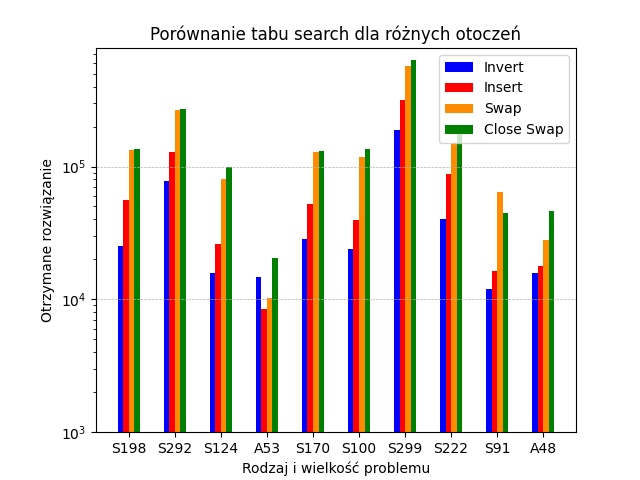
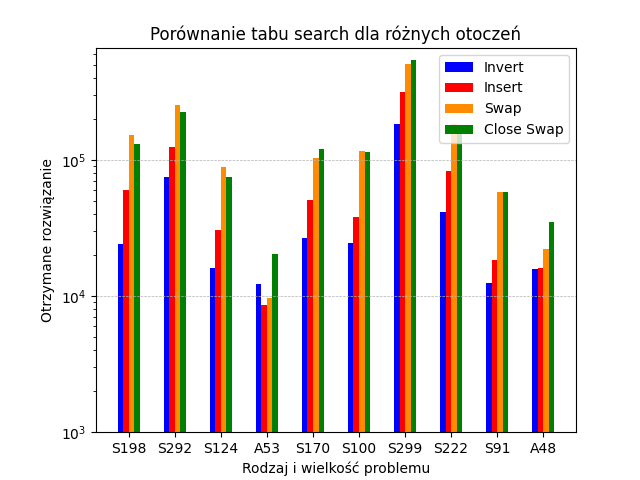
Small changes

diff --git a/src/main/java/org/example/tabooSearchAnalyses/AlgorithmsComparisonTS.java b/src/main/java/org/example/tabooSearchAnalyses/AlgorithmsComparisonTS.java
@@ -12,8 +12,8 @@ import org.example.algorithm.taboo.Neighbourhoods.Insert;
 import org.example.algorithm.taboo.Neighbourhoods.Invert;
 import org.example.algorithm.taboo.Neighbourhoods.Swap;
 import org.example.algorithm.taboo.TabooSearch2;
-import org.example.algorithm.taboo.stopFunctions.IterationsStop;
-import org.example.algorithm.taboo.stopFunctions.TimeStop;
+import org.example.stopFunctions.IterationsStop;
+import org.example.stopFunctions.TimeStop;
 import org.example.algorithm.taboo.tabooList.BasicTabooList;
 import org.example.algorithm.taboo.tabooList.InvertTabooList;
 import org.example.data.Result;
@@ -332,24 +332,22 @@ public class AlgorithmsComparisonTS {
 	}
 
 	// Porownanie listy dlugoterminowej
-	public static void compareExploreFunctions(String fileName, List<TspData> data) {
+	public static void compareExploreFunctions(String fileName, List<TspData> data, int kick_changes) {
 		int n = data.size();
 		int tests[] = {0, 50, 100, 200, 300};
 		int ts[][] = new int[n][tests.length + 1];
 		int i = 0;
 		for (TspData tspData : data) {
 			Result res = new KRandom(tspData).calculate();
-			System.out.println(i + ": " + tspData.getSize());
 			for(int j = 0; j < tests.length; j++) {
-				ExploreFunction exploreFunction = new Kick(tests[j], 5);
+				ExploreFunction exploreFunction = new Kick(tests[j], kick_changes);
 				if(tests[j] == 0) exploreFunction = null;
 				TabooSearch2 taboo = new TabooSearch2(tspData, res, false,
 						new BasicTabooList(10), new Invert(),
 						new IterationsStop(2000), null, exploreFunction, 1);
 				ts[i][j] = taboo.calculate().calcObjectiveFunction();
 			}
-			System.out.println(i + ": " + tspData.getSize());
-			ExploreFunction exploreFunction = new Kick(n/4, 5);
+			ExploreFunction exploreFunction = new Kick(n/4, kick_changes);
 			TabooSearch2 taboo = new TabooSearch2(tspData, res, false,
 					new BasicTabooList(10), new Invert(),
 					new IterationsStop(2000), null, exploreFunction, 1);

diff --git a/wykresy2/exploreFunctions/wykres.py b/wykresy2/exploreFunctions/wykres.py
@@ -38,5 +38,35 @@ def draw():
     plt.clf()
 
 
+    file = open('exploreFunctions15.csv')
+    file.readline()
+    names = ['' for n in range(10)]
+    longTermList = [[0 for n in range(10)] for j in range(8)]
+    for i in range(10):
+        line = file.readline().split(';')
+        names[i] = str(line[0])
+        for j in range(6):
+            longTermList[j][i] = int(line[j+1])
+
+    r1 = np.arange(10)*2
+    plt.title('Porównanie tabu search dla metody eksploracji co n kroków')
+    color = ['black', 'red', 'darkorange', 'greenyellow', 'green', 'blue']
+    plt.bar(r1 - 1.5 * l, longTermList[0], color=color[0], width=l, label='Bez metody eksploracji')
+    plt.bar(r1 - 0.5 * l, longTermList[1], color=color[1], width=l, label='n = 50')
+    plt.bar(r1 + 0.5 * l, longTermList[2], color=color[2], width=l, label='n = 100')
+    plt.bar(r1 + 1.5 * l, longTermList[3], color=color[3], width=l, label='n = 200')
+    plt.bar(r1 + 2.5 * l, longTermList[4], color=color[4], width=l, label='n = 300')
+    plt.bar(r1 + 3.5 * l, longTermList[5], color=color[5], width=l, label='n = wielkość_problemu/4')
+    plt.xticks([2*r + l for r in range(10)], names)
+    plt.legend()
+    plt.xlabel('Rodzaj i wielkość problemu')
+    plt.ylabel('Otrzymane rozwiązanie')
+    plt.subplots_adjust(left=0.15, bottom=0.1, right=0.9, top=0.9)
+    plt.grid(axis='y', linestyle='--', linewidth=0.5)
+    plt.yscale('log')
+    plt.yticks([1000, 10000, 100000])
+    plt.savefig('exploreFunctions15.png', bbox_inches='tight')
+    plt.clf()
+
 
 draw()

diff --git a/src/main/java/org/example/algorithm/genetic/crossovers/PartialCrossover.java b/src/main/java/org/example/algorithm/genetic/crossovers/PartialCrossover.java
@@ -1,0 +1,45 @@
+package org.example.algorithm.genetic.crossovers;
+
+import org.example.algorithm.genetic.GeneticResult;
+
+import java.util.ArrayList;
+import java.util.List;
+import java.util.concurrent.ThreadLocalRandom;
+
+public class PartialCrossover implements Crossover {
+
+	int from, to;
+
+	/**
+	 * For example from = 1, to = 4 will cross part '2 1 4 3'
+	 * from result '0 2 1 4 3 5 6 7' with another result and repair
+	 * indexes which are duplicated in ascending order
+	 * @param from point from genetic result will be transformed
+	 * @param to point to genetic result will be transformed
+	 */
+	public PartialCrossover(int from, int to) {
+		this.from = from;
+		this.to = to;
+	}
+
+	@Override
+	public List<GeneticResult> getNewPopulation(List<GeneticResult> oldPopulation) {
+		List<GeneticResult> list = new ArrayList<>();
+		for(GeneticResult result : oldPopulation) {
+			for(GeneticResult result2 : oldPopulation) {
+				if(!result.equals(result2)
+						&& result.getChanceToCross() < ThreadLocalRandom.current().nextDouble()
+						&& result2.getChanceToCross() < ThreadLocalRandom.current().nextDouble()) {
+
+				}
+			}
+		}
+		return list;
+	}
+
+	private GeneticResult getNewGeneticResult(GeneticResult result1, GeneticResult result2) {
+		GeneticResult newRes = result1.clone();
+		return newRes;
+	}
+
+}

diff --git a/src/main/java/org/example/Main.java b/src/main/java/org/example/Main.java
@@ -68,13 +68,14 @@ public class Main {
 //        AlgorithmsComparisonTS.compareOperations("operations.csv", list);
 //        AlgorithmsComparisonTS.compareTabooListSize("tabooListSize.csv", list);
 //        AlgorithmsComparisonTS.compareAspiration("aspiration.csv", list);
-//        AlgorithmsComparisonTS.compareNeighbourhood("neighbourhood.csv", list);
+        AlgorithmsComparisonTS.compareNeighbourhood("neighbourhood.csv", list);
 //        AlgorithmsComparisonTS.compareAsynchronous("asynchronous.csv", list);
 //        AlgorithmsComparisonTS.compareStart("start.csv", list);
 //        AlgorithmsComparisonTS.compareLongTermList("longTermList.csv", list, false);
 //        AlgorithmsComparisonTS.compareLongTermList("longTermListKick.csv", list, true);
         System.out.println(list.size());
-        AlgorithmsComparisonTS.compareExploreFunctions("exploreFunctions.csv", list);
+//        AlgorithmsComparisonTS.compareExploreFunctions("exploreFunctions.csv", list, 5);
+//        AlgorithmsComparisonTS.compareExploreFunctions("exploreFunctions15.csv", list, 15);
 //        AlgorithmsComparisonTS.compareTime("progress100.csv", list, 100);
 //        AlgorithmsComparisonTS.compareProgress("progress500.csv", list, 500);
 //        AlgorithmsComparisonTS.compareTime("progress1000.csv", list, 1000);

diff --git a/src/main/java/org/example/algorithm/taboo/TabooSearch.java b/src/main/java/org/example/algorithm/taboo/TabooSearch.java
@@ -4,8 +4,8 @@ import org.example.algorithm.Algorithm;
 import org.example.algorithm.KRandom;
 import org.example.algorithm.taboo.Neighbourhoods.Moves.Move;
 import org.example.algorithm.taboo.Neighbourhoods.Neighbourhood;
-import org.example.algorithm.taboo.stopFunctions.StopFunction;
-import org.example.algorithm.taboo.stopFunctions.TimeStop;
+import org.example.stopFunctions.StopFunction;
+import org.example.stopFunctions.TimeStop;
 import org.example.algorithm.taboo.tabooList.InvertTabooList;
 import org.example.algorithm.taboo.tabooList.TabooList;
 import org.example.data.Result;
@@ -14,11 +14,7 @@ import org.example.data.TspData;
 
 import java.util.ArrayList;
 import java.util.Iterator;
-import java.util.ArrayList;
 import java.util.Map.Entry;
-import java.util.concurrent.ExecutorService;
-import java.util.concurrent.Executors;
-import java.util.concurrent.TimeUnit;
 
 /**
  * Klasa implementująca algorytm Tabu Search.

diff --git a/src/main/java/org/example/algorithm/genetic/GeneticResult.java b/src/main/java/org/example/algorithm/genetic/GeneticResult.java
@@ -1,0 +1,38 @@
+package org.example.algorithm.genetic;
+
+import org.example.data.Result;
+import org.example.data.TspData;
+
+public class GeneticResult extends Result {
+
+	private double chanceToCross = 0.4;
+
+	public GeneticResult(TspData tspData) {
+		super(tspData);
+	}
+
+	public void setChanceToCross(double chanceToCross) {
+		this.chanceToCross = chanceToCross;
+	}
+
+	public double getChanceToCross() {
+		return chanceToCross;
+	}
+
+	@Override
+	public GeneticResult clone() {
+		return null;
+	}
+
+	public static GeneticResult getFromResult(Result result) {
+		GeneticResult newResult = new GeneticResult(result.problem);
+		for(int i = 0; i < result.problem.getSize(); i++) {
+			newResult.way[i] = result.way[i];
+		}
+		newResult.currInd = result.currInd;
+		newResult.objFuncResult = result.objFuncResult;
+		return newResult;
+	}
+
+
+}

diff --git a/src/main/java/org/example/algorithm/taboo/TabooSearch2.java b/src/main/java/org/example/algorithm/taboo/TabooSearch2.java
@@ -7,8 +7,8 @@ import org.example.algorithm.taboo.ExploreFunctions.ExploreFunction;
 import org.example.algorithm.taboo.Neighbourhoods.Invert;
 import org.example.algorithm.taboo.Neighbourhoods.Moves.Move;
 import org.example.algorithm.taboo.Neighbourhoods.Neighbourhood;
-import org.example.algorithm.taboo.stopFunctions.IterationsStop;
-import org.example.algorithm.taboo.stopFunctions.StopFunction;
+import org.example.stopFunctions.IterationsStop;
+import org.example.stopFunctions.StopFunction;
 import org.example.algorithm.taboo.tabooList.BasicTabooList;
 import org.example.algorithm.taboo.tabooList.TabooList;
 import org.example.data.Result;

diff --git a/src/main/java/org/example/RunClass.java b/src/main/java/org/example/RunClass.java
@@ -1,13 +1,10 @@
 package org.example;
 
-import org.example.algorithm.KRandom;
 import org.example.algorithm.NearestNeighbour;
 import org.example.algorithm.taboo.ExploreFunctions.Kick;
 import org.example.algorithm.taboo.Neighbourhoods.Invert;
-import org.example.algorithm.taboo.TabooSearch;
-import org.example.algorithm.TwoOpt;
 import org.example.algorithm.taboo.TabooSearch2;
-import org.example.algorithm.taboo.stopFunctions.IterationsStop;
+import org.example.stopFunctions.IterationsStop;
 import org.example.algorithm.taboo.tabooList.BasicTabooList;
 import org.example.data.Result;
 import org.example.data.TspData;

diff --git a/src/main/java/org/example/algorithm/genetic/crossovers/Crossover.java b/src/main/java/org/example/algorithm/genetic/crossovers/Crossover.java
@@ -1,0 +1,17 @@
+package org.example.algorithm.genetic.crossovers;
+
+import org.example.algorithm.genetic.GeneticResult;
+import org.example.data.Result;
+
+import java.util.List;
+
+public interface Crossover {
+
+	/**
+	 *
+	 * @param oldPopulation list of all old results which has to be crossed
+	 * @return new list of results which will be mutated
+	 */
+	List<GeneticResult> getNewPopulation(List<GeneticResult> oldPopulation);
+
+}

diff --git a/src/main/java/org/example/algorithm/taboo/Neighbourhoods/Swap.java b/src/main/java/org/example/algorithm/taboo/Neighbourhoods/Swap.java
@@ -65,7 +65,7 @@ public class Swap implements Neighbourhood {
                 //zrobiłem pewne zmiany w Result, teraz taki konstruktor kopiuje
                 Result newResult = new Result(result);
 
-                swap(result, i, j);
+                swap(newResult, i, j);
 
                 newResult.objFuncResult = newResult.calcObjectiveFunction();
 

diff --git a/src/main/java/org/example/algorithm/taboo/Neighbourhoods/CloseSwap.java b/src/main/java/org/example/algorithm/taboo/Neighbourhoods/CloseSwap.java
@@ -24,7 +24,7 @@ public class CloseSwap implements Neighbourhood {
             //zrobiłem pewne zmiany w Result, teraz taki konstruktor kopiuje
             Result newResult = new Result(result);
 
-            swap(result, i, (i+1)%n);
+            swap(newResult, i, (i+1)%n);
 
             newResult.objFuncResult = newResult.calcObjectiveFunction();
 

diff --git a/src/main/java/org/example/algorithm/genetic/GeneticAlgorithm.java b/src/main/java/org/example/algorithm/genetic/GeneticAlgorithm.java
@@ -1,0 +1,18 @@
+package org.example.algorithm.genetic;
+
+import org.example.algorithm.Algorithm;
+import org.example.data.Result;
+import org.example.data.TspData;
+
+public class GeneticAlgorithm extends Algorithm {
+
+	public GeneticAlgorithm(TspData tspData) {
+		super(tspData);
+	}
+
+	@Override
+	public Result calculate() {
+		return null;
+	}
+
+}
